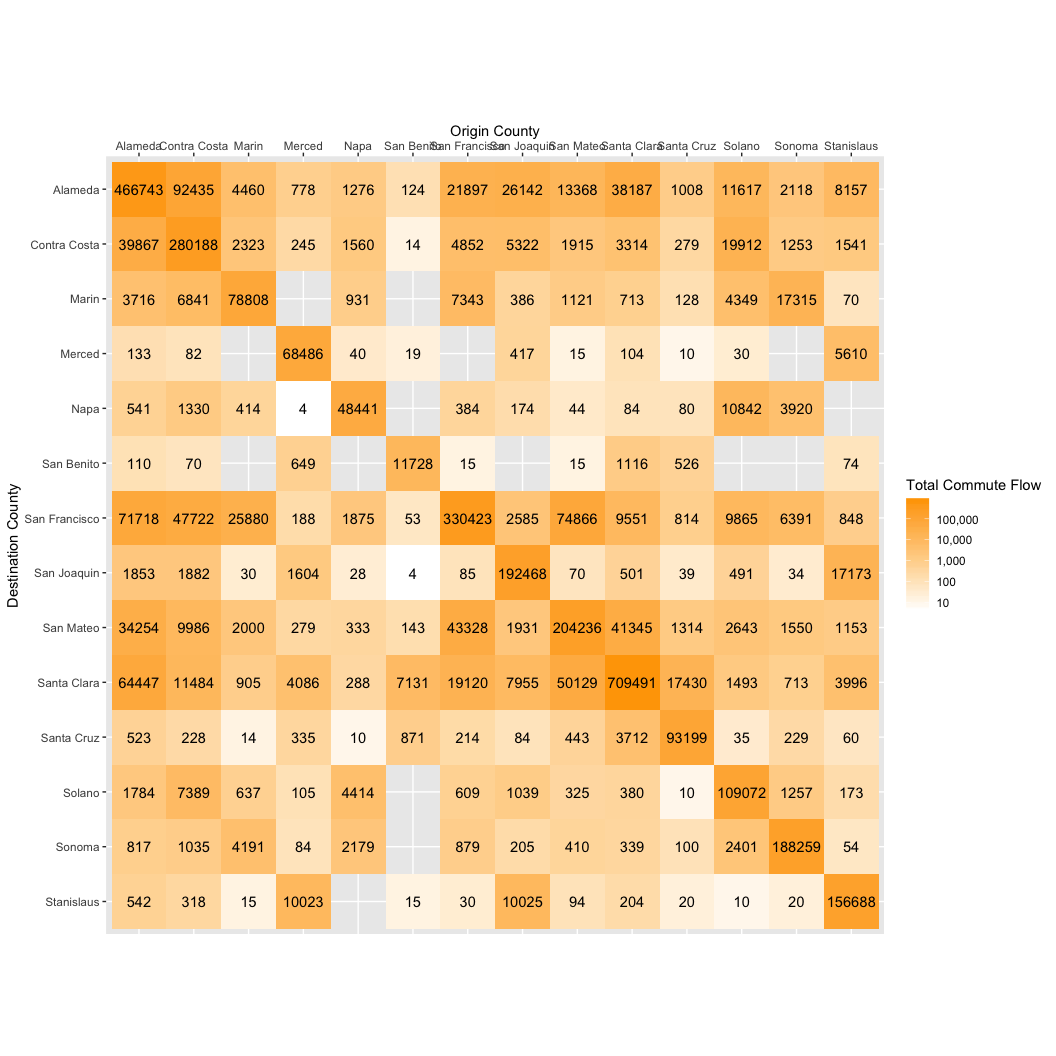
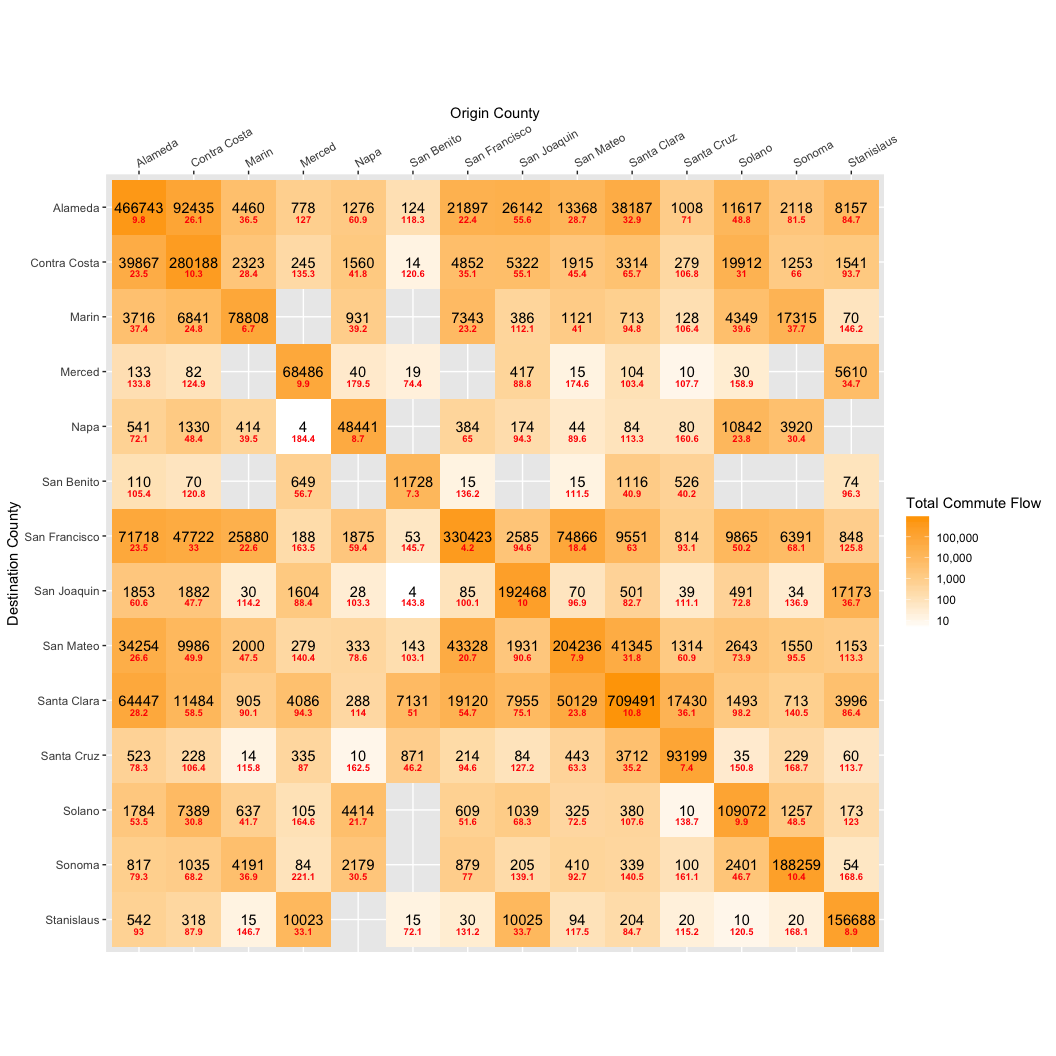
tidied up o/d matrix, added histograms of commutes with and without intra-county, started estimating new data for each city

Changed region(s): [[0.0, 0.0938, 0.9688, 0.9062], [0.0312, 0.75, 0.0938, 0.875]]

diff --git a/jobs_housing_ratios_emissions.md b/jobs_housing_ratios_emissions.md
@@ -135,7 +135,6 @@ ggplot() +
   geom_sf(
     aes(fill = COUNTY),
     data = csa_cities_cleaned
-    # data = city_data_cleaned
   ) +
   theme(legend.position = "none") +
   theme_minimal() +
@@ -891,6 +890,7 @@ inflows <-
     avg_km_to_tract = weighted.mean(LENKM, FLOW)
   )
 
+# To find the outflows, group by OFIPS
 outflows <-
   bay_area_commutes %>% 
   mutate(total_trip_km = FLOW * LENKM) %>% 
@@ -906,7 +906,6 @@ flow_data <-
   left_join(outflows, by = c("DFIPS" = "OFIPS")) %>% 
   rename(tract = DFIPS) %>% 
   left_join(bay_area_tract_data, by = c("tract" = "GEOID")) 
-  # left_join(bay_area_tract_data, by = c("tract" = "GEOID")) 
 
 flow_data
 ```
@@ -966,6 +965,7 @@ flow_matrix %>%
   ggplot() +
   geom_tile(aes(x = origin_county, y = reorder(dest_county, desc(dest_county)), fill = flow)) +
   geom_text(aes(x = origin_county, y = reorder(dest_county, desc(dest_county)), label = flow)) +
+  geom_text(aes(x = origin_county, y = reorder(dest_county, desc(dest_county)), label = round(avg_length_km, 1)), size = 2.5, color = "red", vjust = 2.2, fontface = "bold") +
   scale_fill_gradient(low = "white", high = "orange", trans = "log", breaks = my_breaks, labels = comma) +
   scale_x_discrete(position = "top") +
   coord_equal() +
@@ -973,32 +973,46 @@ flow_matrix %>%
     x = "Origin County",
     y = "Destination County",
     fill = "Total Commute Flow"
-  )
+  ) +
+  theme(
+    axis.text.x = element_text(angle = 30, hjust = 0, vjust = 1)
+    )
 ```
 
 ![](jobs_housing_ratios_emissions_files/figure-gfm/unnamed-chunk-35-1.png)<!-- -->
 
 ``` r
+# Distribution of commute lengths, weighted by commute flow
+
+mean_length <-
+  bay_area_commutes %>% 
+  summarize(
+    mean_length = weighted.mean(LENKM, FLOW),
+  )
+
+median_length <-
+  bay_area_commutes %>% 
+  summarize(
+    median_length = median(rep(LENKM, times = FLOW))
+  )
+
 bay_area_commutes %>% 
-  left_join(bay_area_tract_data, by = c("OFIPS" = "GEOID")) %>% 
-  rename(origin_lat = INTPTLAT, origin_lon = INTPTLONG, origin_county_code = county_code, origin_county = County) %>% 
-  left_join(bay_area_tract_data, by = c("DFIPS" = "GEOID")) %>% 
-  rename(dest_lat = INTPTLAT, dest_lon = INTPTLONG, dest_county_code = county_code, dest_county = County) %>% 
-  filter(origin_county == "Alameda", dest_county == "San Benito")
+  ggplot(aes(x = LENKM, weight = FLOW)) +
+  geom_histogram(binwidth = 3) +
+  scale_y_continuous(
+    breaks = seq(0, 600000, by = 100000),
+    labels = scales::comma_format(accuracy = 1)
+  ) +
+  theme_bw() +
+  labs(
+    x = "Commute Distance [km]",
+    y = "Number of Commuters",
+    title = sprintf("Mean Commute Distance: %1$s km", round(mean_length, 1)),
+    subtitle = sprintf("Median Commute Distance: %1$s km", round(median_length, 1)) 
+  )
 ```
 
-    ## # A tibble: 5 x 20
-    ##   OFIPS DFIPS OSTFIPS OCTFIPS OTRFIPS DSTFIPS DCTFIPS DTRFIPS  FLOW   MOE
-    ##   <chr> <chr>   <dbl>   <dbl>   <dbl>   <dbl>   <dbl>   <dbl> <dbl> <dbl>
-    ## 1 0600… 0606…       6       1  435601       6      69     100    35    56
-    ## 2 0600… 0606…       6       1  430500       6      69     200    25    45
-    ## 3 0600… 0606…       6       1  443104       6      69     100    20    35
-    ## 4 0600… 0606…       6       1  451703       6      69     600    20    30
-    ## 5 0600… 0606…       6       1  404600       6      69     400    10    18
-    ## # … with 10 more variables: LENKM <dbl>, ESTDIVMOE <dbl>,
-    ## #   origin_lat <dbl>, origin_lon <dbl>, origin_county_code <dbl>,
-    ## #   origin_county <chr>, dest_lat <dbl>, dest_lon <dbl>,
-    ## #   dest_county_code <dbl>, dest_county <chr>
+![](jobs_housing_ratios_emissions_files/figure-gfm/unnamed-chunk-36-1.png)<!-- -->
 
 Next, let’s observe the total inflows and outflows from each county. We
 can calculate the imbalance as well. A positive imbalance means more
@@ -1006,12 +1020,32 @@ people commute to that county than from it. I’ll refer to this as net
 inflow.
 
 ``` r
+flow_data
+```
+
+    ## # A tibble: 1,923 x 9
+    ##    tract total_flow_to_t… avg_km_to_tract total_flow_from… avg_km_from_tra…
+    ##    <chr>            <dbl>           <dbl>            <dbl>            <dbl>
+    ##  1 0600…             1322            17.2             1364            14.5 
+    ##  2 0600…             2169            14.1             1169             9.56
+    ##  3 0600…             3427            12.2             2646            10.4 
+    ##  4 0600…             1313            10.1             2335             9.66
+    ##  5 0600…              657            11.0             2087            10.8 
+    ##  6 0600…              249            13.8              817            12.9 
+    ##  7 0600…             1422            15.3             1771            10.5 
+    ##  8 0600…             1351            15.4             1409            11.0 
+    ##  9 0600…              349            21.3             1270            10.4 
+    ## 10 0600…             3137            20.6             2755            11.0 
+    ## # … with 1,913 more rows, and 4 more variables: INTPTLAT <dbl>,
+    ## #   INTPTLONG <dbl>, county_code <dbl>, County <chr>
+
+``` r
 flow_data %>% 
   group_by(County) %>% 
   summarize(total_flow_to_county = sum(total_flow_to_tract, na.rm = TRUE),
             total_flow_from_county = sum(total_flow_from_tract, na.rm = TRUE),
-            avg_commute_to_county = weighted.mean(avg_km_to_tract, total_flow_to_tract, na.rm = TRUE),
-            avg_commute_from_county = weighted.mean(avg_km_from_tract, total_flow_from_tract, na.rm = TRUE)
+            avg_commute_to_county_km = weighted.mean(avg_km_to_tract, total_flow_to_tract, na.rm = TRUE),
+            avg_commute_from_county_km = weighted.mean(avg_km_from_tract, total_flow_from_tract, na.rm = TRUE)
             ) %>% 
   mutate(imbalance = total_flow_to_county - total_flow_from_county)
 ```
@@ -1033,7 +1067,107 @@ flow_data %>%
     ## 12 Solano           127194           172760             14.1
     ## 13 Sonoma           200953           223059             13.2
     ## 14 Stani…           178004           195597             12.3
-    ## # … with 2 more variables: avg_commute_from_county <dbl>, imbalance <dbl>
+    ## # … with 2 more variables: avg_commute_from_county_km <dbl>,
+    ## #   imbalance <dbl>
+
+The average distances calculated above include commutes within a single
+county. Since we are interested in estimating the emissions associated
+with commute imbalances, let’s remove commutes that start and end within
+the same county and compare the distances.
+
+``` r
+flow_matrix_detailed <-
+  bay_area_commutes %>% 
+  left_join(bay_area_tract_data, by = c("OFIPS" = "GEOID")) %>% 
+  rename(origin_lat = INTPTLAT, origin_lon = INTPTLONG, origin_county_code = county_code, origin_county = County) %>% 
+  left_join(bay_area_tract_data, by = c("DFIPS" = "GEOID")) %>% 
+  rename(dest_lat = INTPTLAT, dest_lon = INTPTLONG, dest_county_code = county_code, dest_county = County) 
+
+inter_county_dest <-
+  flow_matrix_detailed %>% 
+  filter(dest_county != origin_county) %>% 
+  group_by(dest_county) %>% 
+  summarize(
+    total_flow_into_county = sum(FLOW, na.rm = TRUE),
+    avg_commute_to_county_km = weighted.mean(LENKM, FLOW, na.rm = TRUE)
+  )
+```
+
+Let’s also look at the commutes from each county
+
+``` r
+inter_county_orig <-
+  flow_matrix_detailed %>% 
+  filter(dest_county != origin_county) %>% 
+  group_by(origin_county) %>%
+  summarize(
+    total_flow_leaving_county = sum(FLOW, na.rm = TRUE),
+    avg_commute_from_county_km = weighted.mean(LENKM, FLOW, na.rm = TRUE)
+  )
+```
+
+``` r
+flows_inter_county <-
+  inter_county_dest %>% 
+  left_join(inter_county_orig, by=c("dest_county" = "origin_county"))
+
+flows_inter_county
+```
+
+    ## # A tibble: 14 x 5
+    ##    dest_county total_flow_into… avg_commute_to_… total_flow_leav…
+    ##    <chr>                  <dbl>            <dbl>            <dbl>
+    ##  1 Alameda               221567             35.4           220305
+    ##  2 Contra Cos…            82397             33.3           180802
+    ##  3 Marin                  42913             35.5            40869
+    ##  4 Merced                  6460             44.5            18380
+    ##  5 Napa                   17817             31.8            12934
+    ##  6 San Benito              2575             52.2             8374
+    ##  7 San Franci…           252356             29.0            98756
+    ##  8 San Joaquin            23794             45.5            56265
+    ##  9 San Mateo             140259             32.3           142815
+    ## 10 Santa Clara           189177             39.2            99550
+    ## 11 Santa Cruz              6758             56.0            21758
+    ## 12 Solano                 18122             39.4            63688
+    ## 13 Sonoma                 12694             54.7            34800
+    ## 14 Stanislaus             21316             37.1            38909
+    ## # … with 1 more variable: avg_commute_from_county_km <dbl>
+
+Let’s plot the commute length distribution for inter-county commutes
+
+``` r
+mean_distance_inter_county <-
+  flow_matrix_detailed %>% 
+  filter(origin_county != dest_county) %>% 
+  summarize(
+    distance = weighted.mean(LENKM, FLOW)
+  )
+
+median_distance_inter_county <-
+  flow_matrix_detailed %>% 
+  filter(origin_county != dest_county) %>% 
+  summarize(
+    median_length = median(rep(LENKM, times = FLOW))
+  )
+
+flow_matrix_detailed %>% 
+  filter(origin_county != dest_county) %>% 
+  ggplot(aes(x = LENKM, weight = FLOW)) +
+  geom_histogram(binwidth = 3) +
+  scale_y_continuous(
+    breaks = seq(0, 100000, by = 10000),
+    labels = scales::comma_format(accuracy = 1)
+  ) +
+  theme_bw() +
+  labs(
+    x = "Commute Distance [km]",
+    y = "Number of Commuters",
+    title = sprintf("Mean Commute Distance: %1$s km", round(mean_distance_inter_county, 1)),
+    subtitle = sprintf("Median Commute Distance: %1$s km", round(median_distance_inter_county, 1)) 
+  )
+```
+
+![](jobs_housing_ratios_emissions_files/figure-gfm/unnamed-chunk-42-1.png)<!-- -->
 
 San Francisco has the highest net inflow, at 153,600 commutes, followed
 by Santa Clara County, with 89,627 commutes. On the opposite end of the
@@ -1041,7 +1175,7 @@ spectrum, Contra Costa County has the highest outflow, with 98,405 more
 commutes begining than ending in the County each day. Solano, San
 Joaquin, Sonoma, Stanislaus, and Santa Cruz Counties all have
 significant outflows of commuters. The value for Santa Clara is similar
-to that reported by SV @ Hom (\~100k).
+to that reported by SV @ Home (\~100k).
 
 # Assigning Emissions Impacts to Communities
 
@@ -1062,7 +1196,7 @@ csa_cities_cleaned %>%
   theme_bw()
 ```
 
-![](jobs_housing_ratios_emissions_files/figure-gfm/unnamed-chunk-38-1.png)<!-- -->
+![](jobs_housing_ratios_emissions_files/figure-gfm/unnamed-chunk-43-1.png)<!-- -->
 
 Let’s join the flow data with the csa\_cities\_data. To ensure I account
 for all flows I will use the st\_nearest feature to identify the closest
@@ -1073,12 +1207,33 @@ csa_cities_cleaned_idx <-
   csa_cities_cleaned %>% 
   mutate(index = row_number())
 
+# running this next chunk takes a long time (2 mins ish)
 flow_data_idx <-
   flow_data %>% 
   mutate(index = st_nearest_feature(flow_data %>% st_as_sf(coords = c("INTPTLONG", "INTPTLAT"), crs = 4326), csa_cities_cleaned %>% st_as_sf))
 ```
 
     ## although coordinates are longitude/latitude, st_nearest_feature assumes that they are planar
+
+``` r
+flow_data_idx
+```
+
+    ## # A tibble: 1,923 x 10
+    ##    tract total_flow_to_t… avg_km_to_tract total_flow_from… avg_km_from_tra…
+    ##    <chr>            <dbl>           <dbl>            <dbl>            <dbl>
+    ##  1 0600…             1322            17.2             1364            14.5 
+    ##  2 0600…             2169            14.1             1169             9.56
+    ##  3 0600…             3427            12.2             2646            10.4 
+    ##  4 0600…             1313            10.1             2335             9.66
+    ##  5 0600…              657            11.0             2087            10.8 
+    ##  6 0600…              249            13.8              817            12.9 
+    ##  7 0600…             1422            15.3             1771            10.5 
+    ##  8 0600…             1351            15.4             1409            11.0 
+    ##  9 0600…              349            21.3             1270            10.4 
+    ## 10 0600…             3137            20.6             2755            11.0 
+    ## # … with 1,913 more rows, and 5 more variables: INTPTLAT <dbl>,
+    ## #   INTPTLONG <dbl>, county_code <dbl>, County <chr>, index <int>
 
 ``` r
 flow_by_csa_city <-
@@ -1164,6 +1319,38 @@ emissions_tibble
 ``` r
 mile_per_km <- 0.62
 
+flow_by_csa_city
+```
+
+    ## Simple feature collection with 2036 features and 30 fields
+    ## geometry type:  GEOMETRY
+    ## dimension:      XY
+    ## bbox:           xmin: -123.5331 ymin: 36.77672 xmax: -120.2436 ymax: 38.81954
+    ## epsg (SRID):    4326
+    ## proj4string:    +proj=longlat +datum=WGS84 +no_defs
+    ## # A tibble: 2,036 x 31
+    ##    FIPSSTCO COUNTY STATEFP PLACEFP PLACENS GEOID NAME  NAMELSAD LSAD 
+    ##    <chr>    <chr>  <chr>   <chr>   <chr>   <chr> <chr> <chr>    <chr>
+    ##  1 06097    Sonoma 06      14190   024094… 0614… Clov… Cloverd… 25   
+    ##  2 06097    Sonoma 06      14190   024094… 0614… Clov… Cloverd… 25   
+    ##  3 06097    Sonoma 06      16560   024102… 0616… Cota… Cotati … 25   
+    ##  4 06097    Sonoma 06      16560   024102… 0616… Cota… Cotati … 25   
+    ##  5 06097    Sonoma 06      16560   024102… 0616… Cota… Cotati … 25   
+    ##  6 06097    Sonoma 06      16560   024102… 0616… Cota… Cotati … 25   
+    ##  7 06095    Solano 06      05290   024098… 0605… Beni… Benicia… 25   
+    ##  8 06095    Solano 06      05290   024098… 0605… Beni… Benicia… 25   
+    ##  9 06095    Solano 06      05290   024098… 0605… Beni… Benicia… 25   
+    ## 10 06095    Solano 06      05290   024098… 0605… Beni… Benicia… 25   
+    ## # … with 2,026 more rows, and 22 more variables: CLASSFP <chr>,
+    ## #   PCICBSA <chr>, PCINECTA <chr>, MTFCC <chr>, FUNCSTAT <chr>,
+    ## #   ALAND <dbl>, AWATER <dbl>, INTPTLAT.x <chr>, INTPTLON <chr>,
+    ## #   FIPSSTCO.1 <chr>, COUNTY.1 <chr>, geometry <GEOMETRY [°]>,
+    ## #   index <int>, tract <chr>, total_flow_to_tract <dbl>,
+    ## #   avg_km_to_tract <dbl>, total_flow_from_tract <dbl>,
+    ## #   avg_km_from_tract <dbl>, INTPTLAT.y <dbl>, INTPTLONG <dbl>,
+    ## #   county_code <dbl>, County <chr>
+
+``` r
 commute_flow_imbalance_by_city <-
   flow_by_csa_city %>% st_drop_geometry() %>% 
   # group by community
@@ -1217,12 +1404,11 @@ deficit_imbalance <-
   deficit %>% st_drop_geometry() %>% 
   left_join(commute_flow_imbalance_by_city, by = c("name" = "NAME")) %>% 
   filter(name != "San Francisco") 
-  # , data = deficit_imbalance %>% filter(name %in% c("Santa Clara", "Stanford", "Berkeley",))) 
 
-  ggplot(deficit_imbalance) +
+ggplot(deficit_imbalance) +
   geom_point(aes(x = housing_deficit, y = imbalance)) +
   geom_text_repel(data = deficit_imbalance %>% filter(name %in% c("Santa Clara", "Stanford", "Berkeley", "San Jose", "Palo Alto", "Pleasanton", "Mountain View")),
-             aes(label = name, x = housing_deficit, y = imbalance), vjust="inward", nudge_y = 1000, nudge_x = -800) +
+                  aes(label = name, x = housing_deficit, y = imbalance), vjust="inward", nudge_y = 1000, nudge_x = -800) +
   theme_bw() +
   coord_cartesian(xlim = c(-21000, 63000)) +
   labs(
@@ -1231,7 +1417,7 @@ deficit_imbalance <-
   )
 ```
 
-![](jobs_housing_ratios_emissions_files/figure-gfm/unnamed-chunk-42-1.png)<!-- -->
+![](jobs_housing_ratios_emissions_files/figure-gfm/unnamed-chunk-47-1.png)<!-- -->
 
 # Emissions Estimate
 
@@ -1270,7 +1456,7 @@ flow_by_csa_city %>%
   geom_sf()
 ```
 
-![](jobs_housing_ratios_emissions_files/figure-gfm/unnamed-chunk-44-1.png)<!-- -->
+![](jobs_housing_ratios_emissions_files/figure-gfm/unnamed-chunk-49-1.png)<!-- -->
 
 ``` r
 flow_data %>% 
